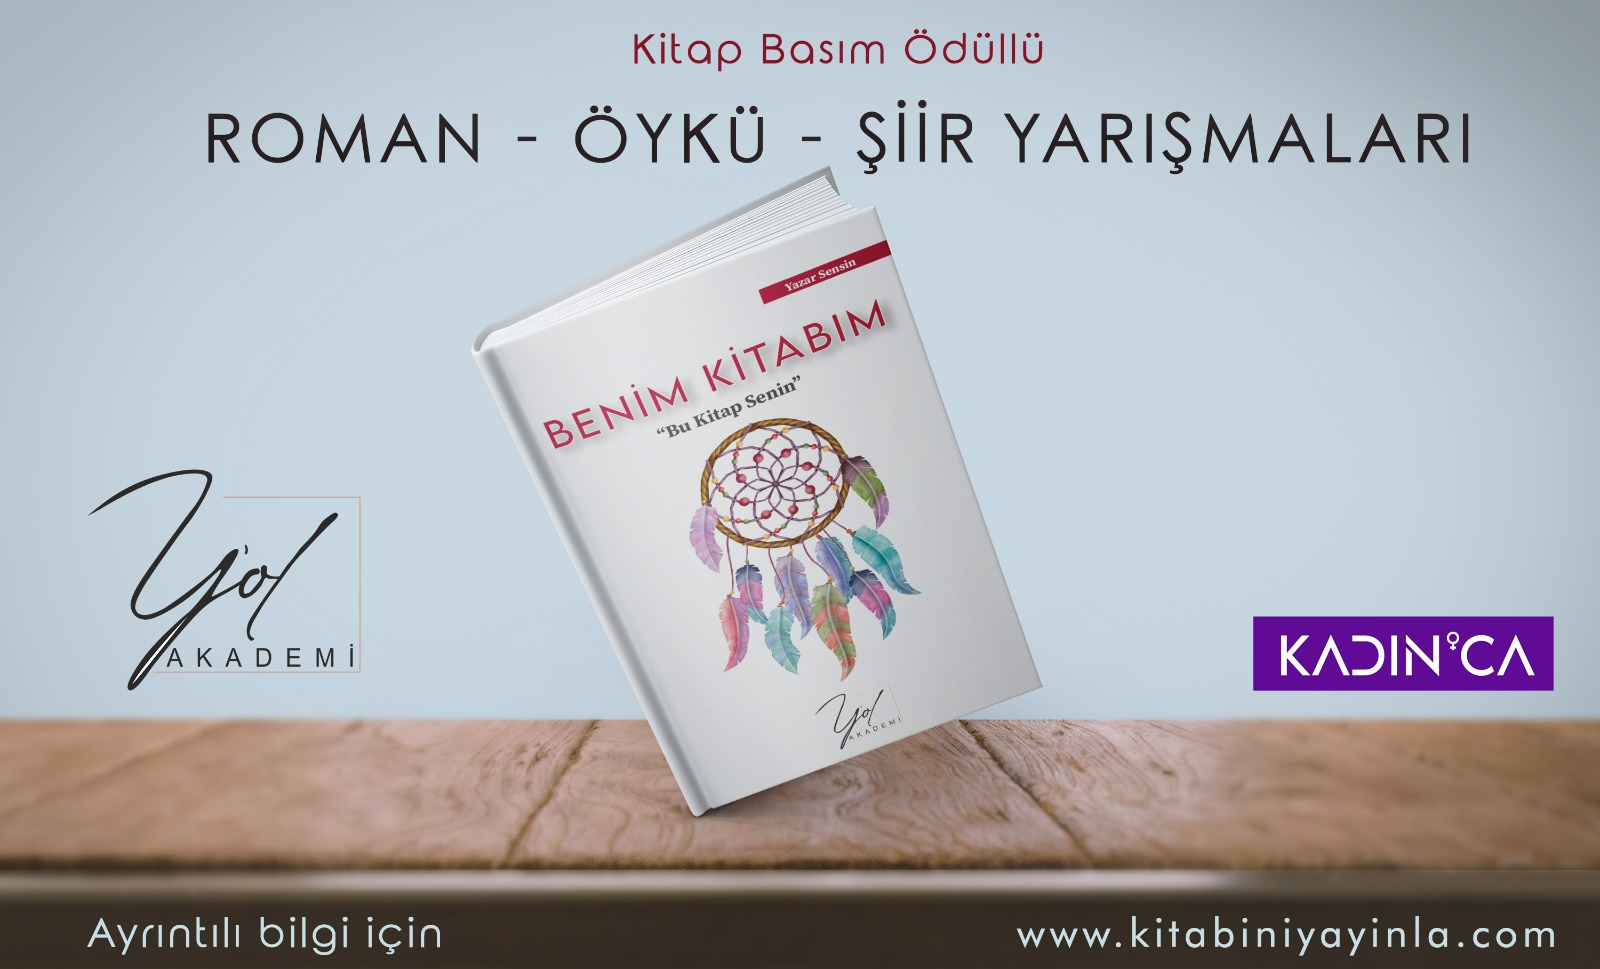
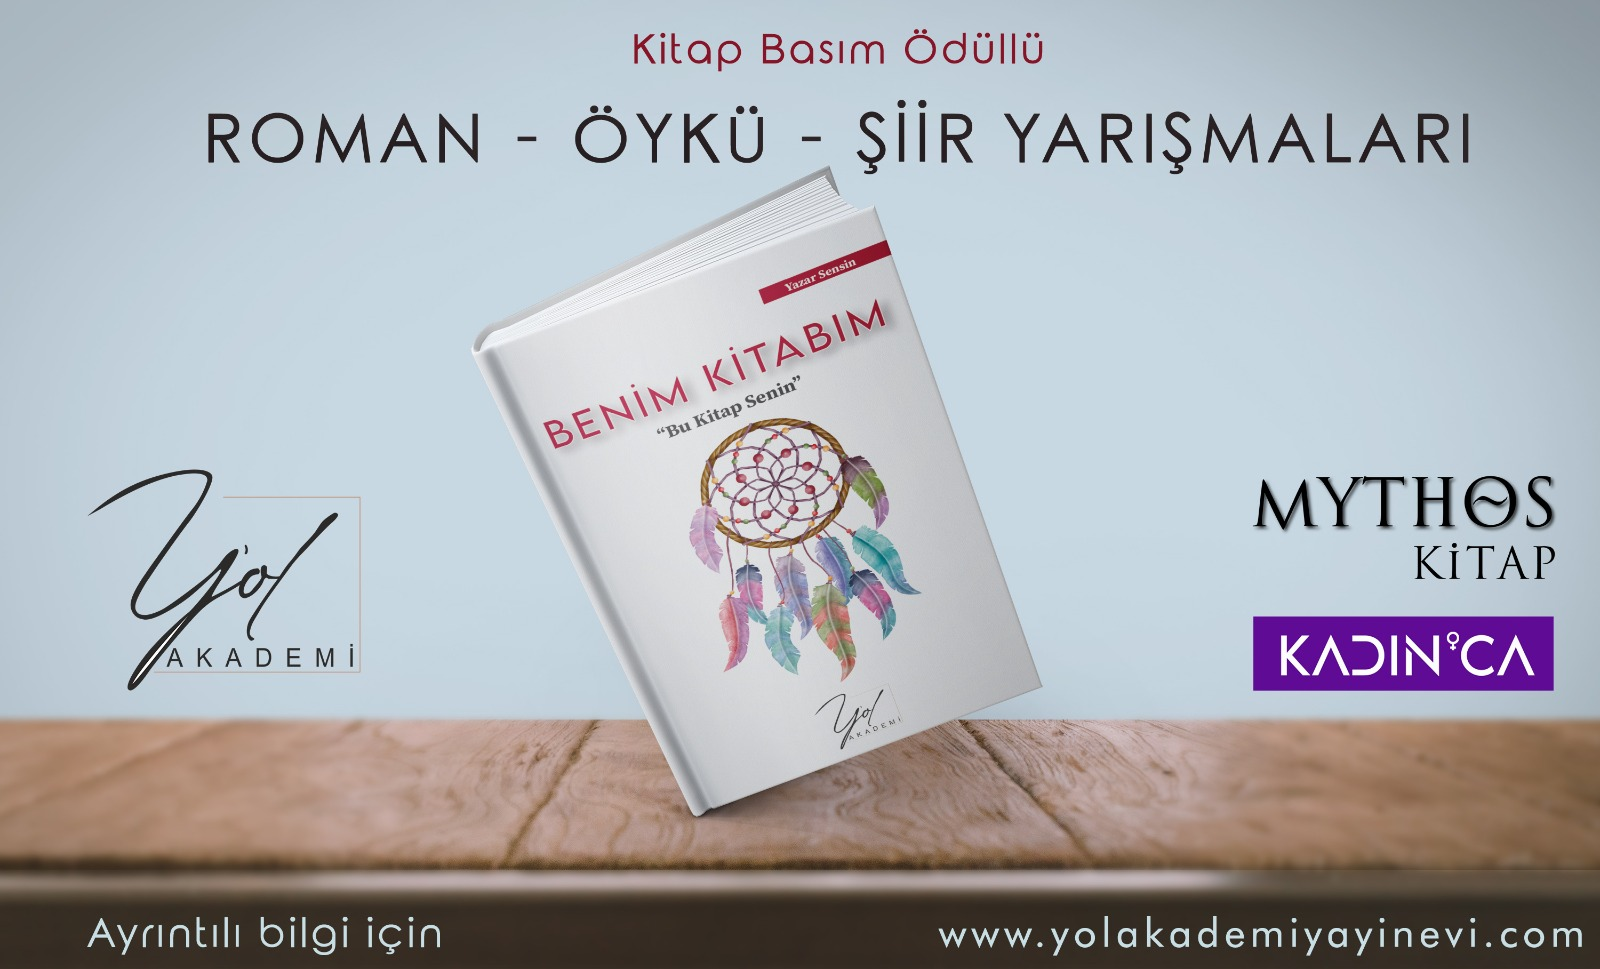
Başvurular devam ediyor: https://edebiyatyarismalari.com/yol-akademi-roman-oyku-siir-yarismasi

Changed region(s): [[0.7812, 0.4954, 0.9688, 0.5882], [0.5938, 0.9288, 1.0, 0.9907]]

diff --git a/_posts/2022/haziran/2022-06-09-yol-akademi-roman.md b/_posts/2022/haziran/2022-06-09-yol-akademi-roman.md
@@ -38,4 +38,4 @@ Değerlendirme:
 - Yayınevi de her eser için 1-100 puan arası değerlendirmesini ekleyecek ve her eser için bu 4 puanın ortalaması alınacaktır.
 - Her ay Yol Akademinin bu yarışma için ayırdığı bütçe ölçüsünde yarışma havuzunda değerlendirilmiş bulunan eserlerin en yüksek puana sahip olanları kitaplaştırılıp yayınlanacaktır. Kaç adet kitabın yayınlanacağı kazanan eserlerin baskı maliyetlerine bağlı olmasına rağmen her ay en az 10 adet ücretsiz kitap ödülü vermeyi planlamaktayız.
 
-### [Başvuru Formu](https://www.kitabiniyayinla.com/ucretsiz-kitap-basimi-katil/?ref=edebiyatyarismalari.com){:rel="nofollow"}{:target="_blank"}{:class="gtag"}
+### [Başvuru Formu](https://www.yolakademiyayinevi.com/roman-yarismasi-2022/?ref=edebiyatyarismalari.com){:rel="nofollow"}{:target="_blank"}{:class="gtag"}
